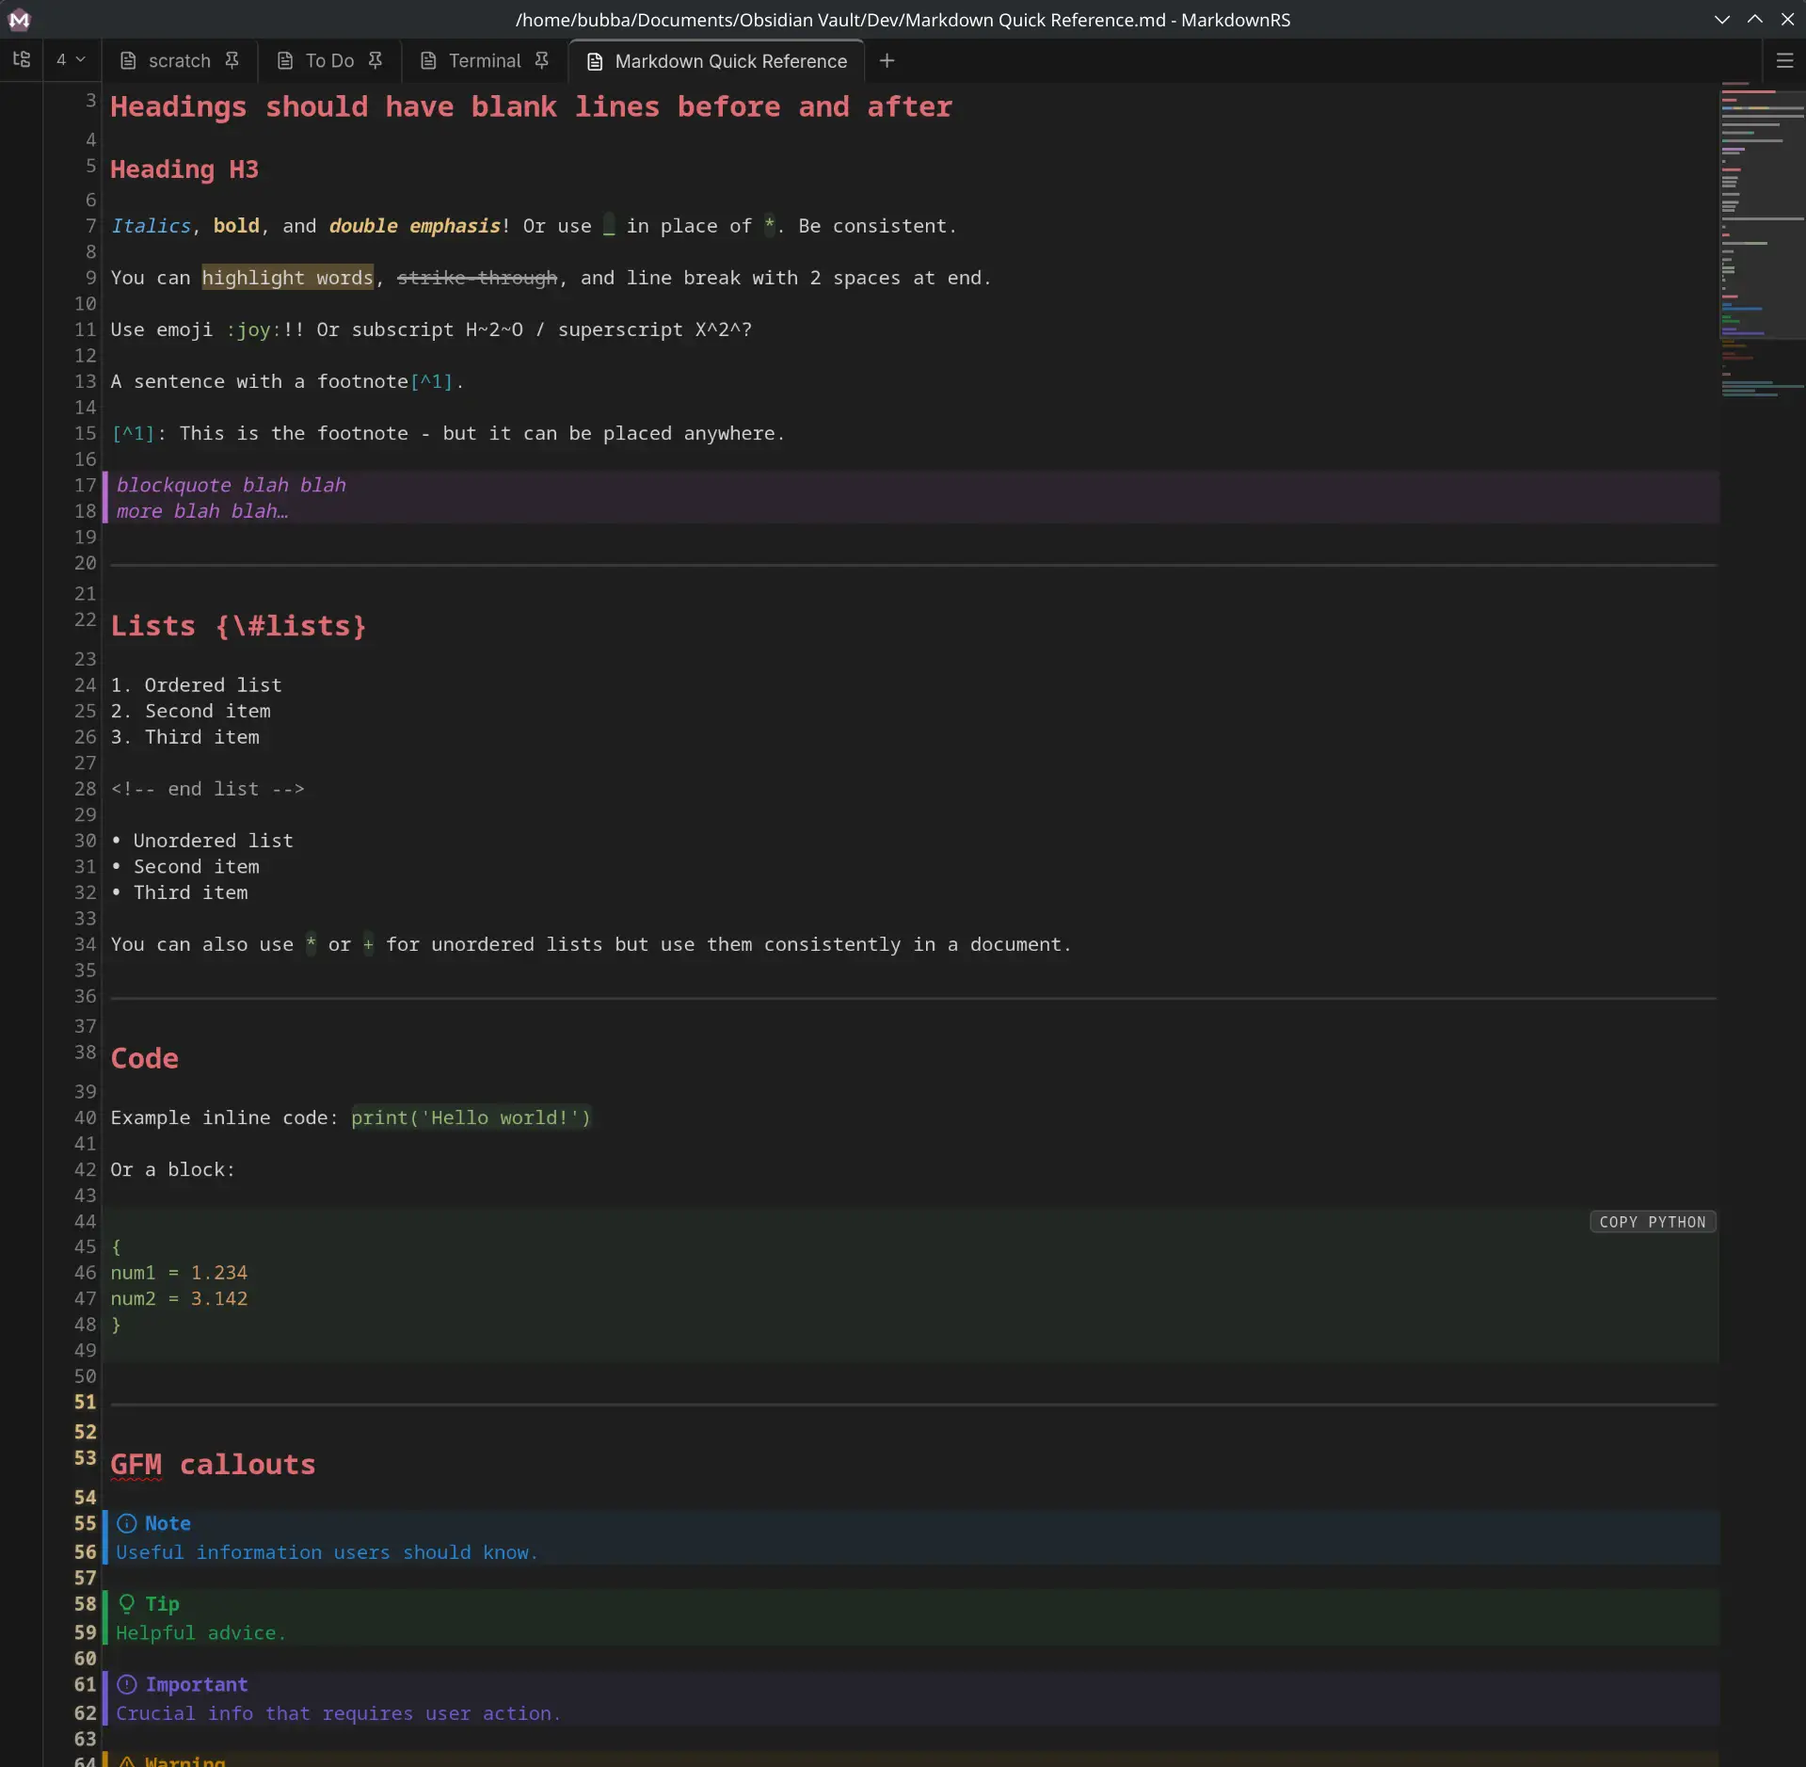
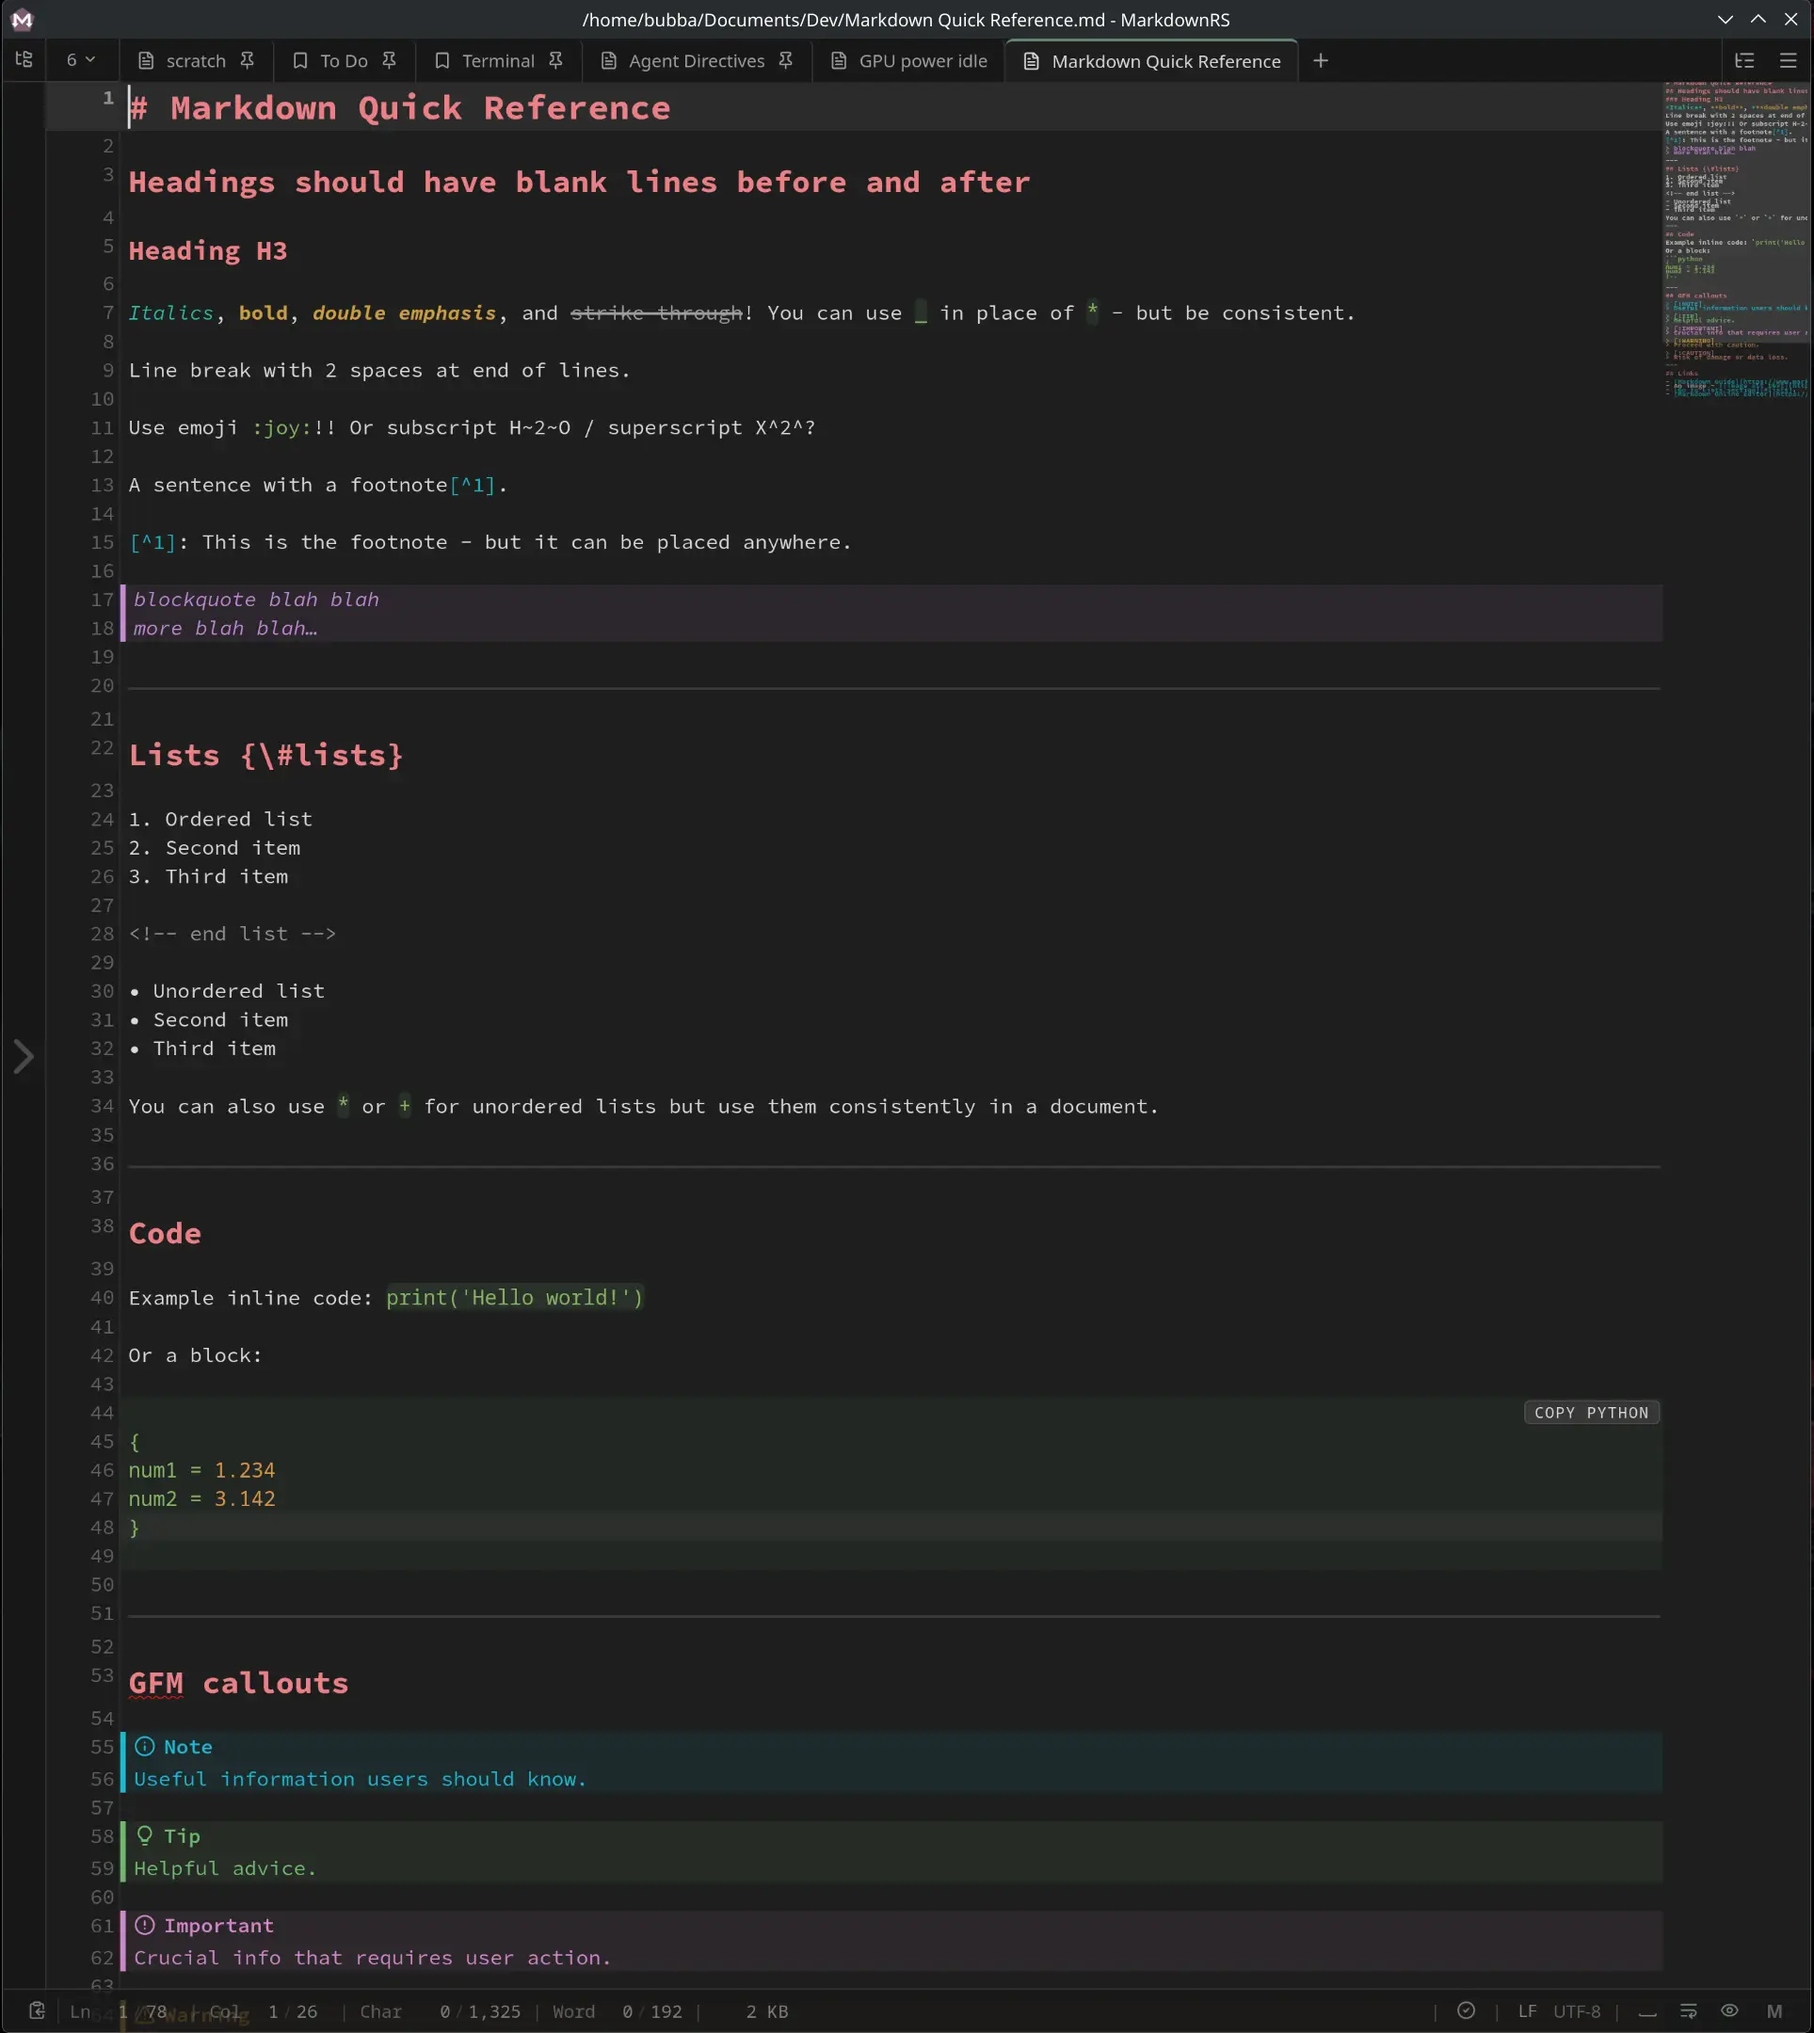
chore: update screenshots, tidy

diff --git a/README.md b/README.md
@@ -4,7 +4,7 @@ A Markdown editor that focuses performance and a clean, minimal UI that still pr
 
 [![License](https://img.shields.io/badge/license-GPL--3.0-blue.svg)](LICENSE) [![GitHub Issues](https://img.shields.io/github/issues/dcog989/MarkdownRS.svg)](https://github.com/dcog989/MarkdownRS/issues) [![GitHub Stars](https://img.shields.io/github/stars/dcog989/MarkdownRS.svg)](https://github.com/dcog989/MarkdownRS/stargazers)
 
-![screenshot 1](assets/screen-1.webp)
+![screenshot 1](assets/screen-1.webp) ![screenshot 2](assets/screen-2.webp) ![screenshot 3](assets/screen-3.webp)
 
 The only Markdown editor you need? Many people are saying so.
 
@@ -101,6 +101,8 @@ bun run dev            # Start dev server / HMR
 bunx tauri build       # Build distributable bundles (.deb, .rpm, .AppImage, NSIS)
 bun run clean          # Remove build artifacts, target, and node_modules
 sudo bun run package   # build, pack, then install (rerun `bun run pkg-install` if the password prompt is missed)
+#
+bun run website        # Start website dev server (HMR) @ http://localhost:5173/
 ```
 
 ---
